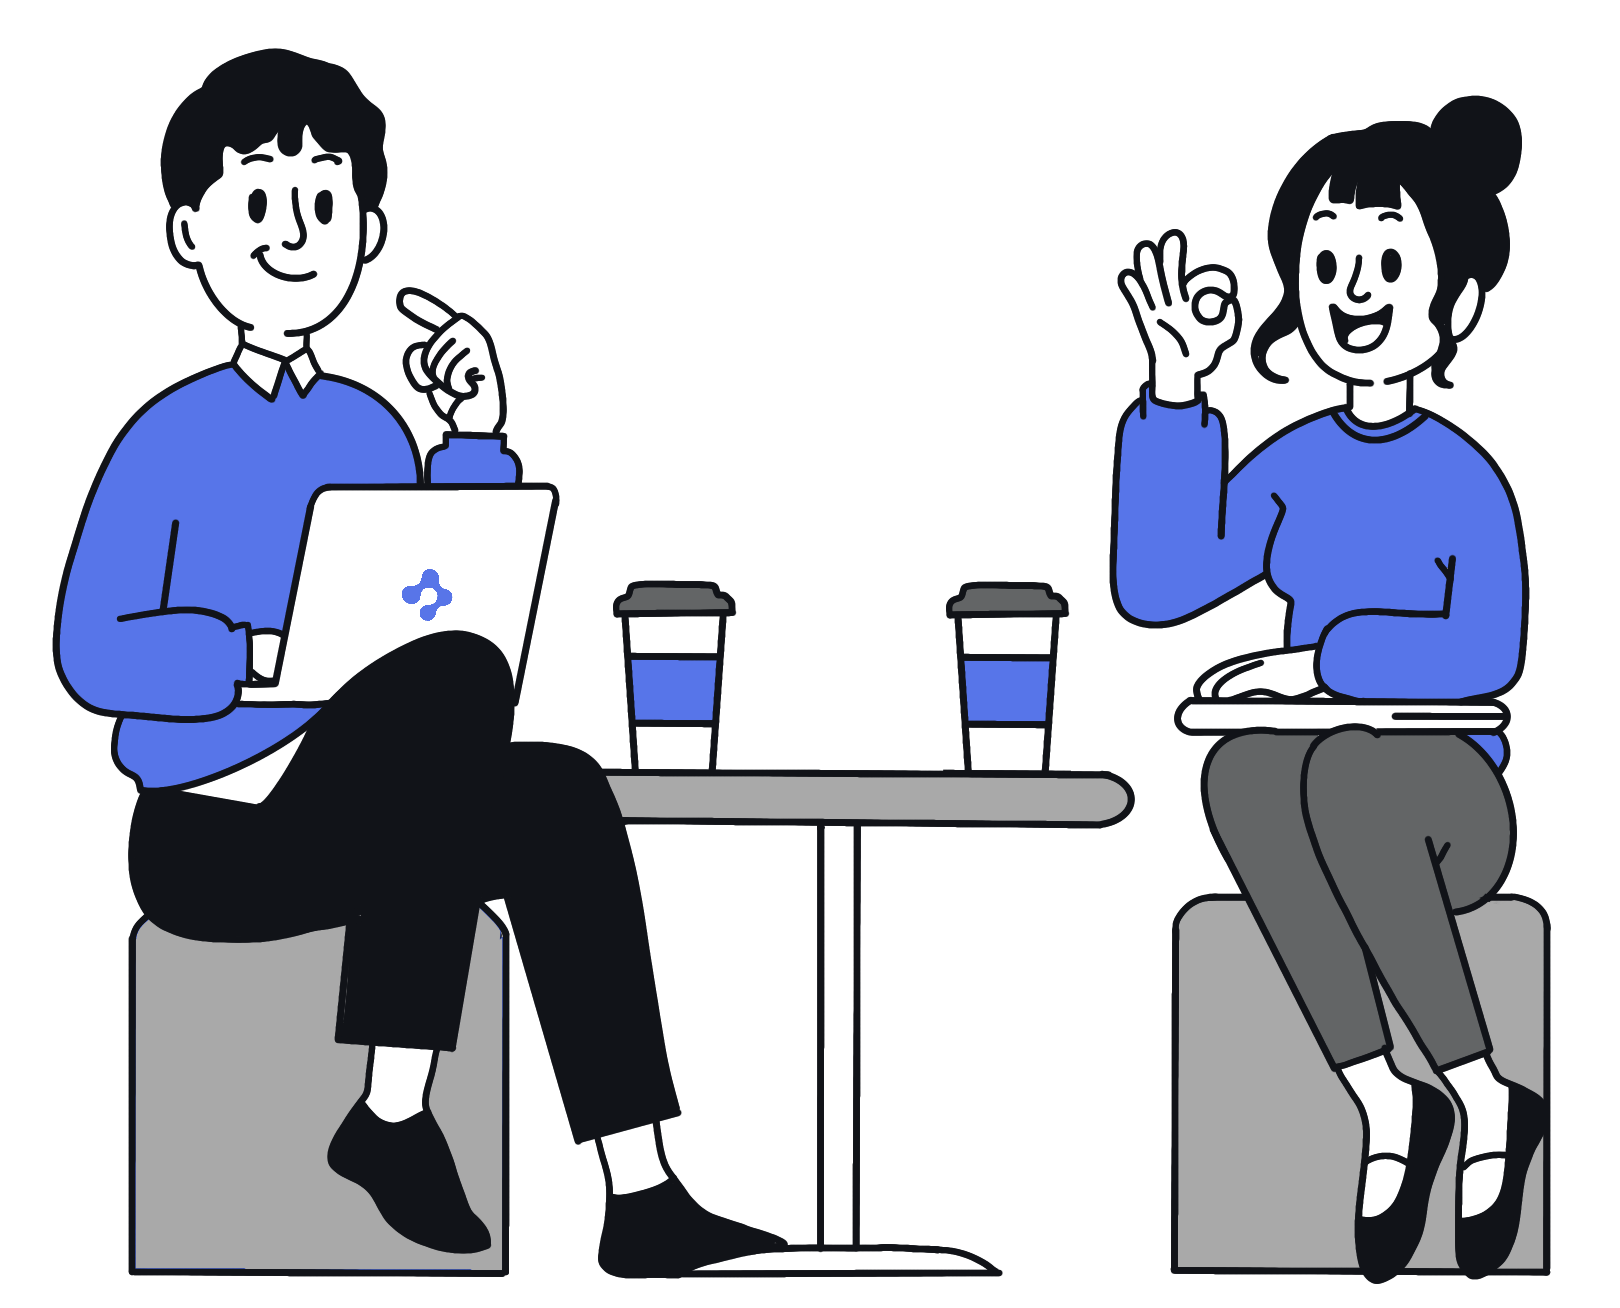
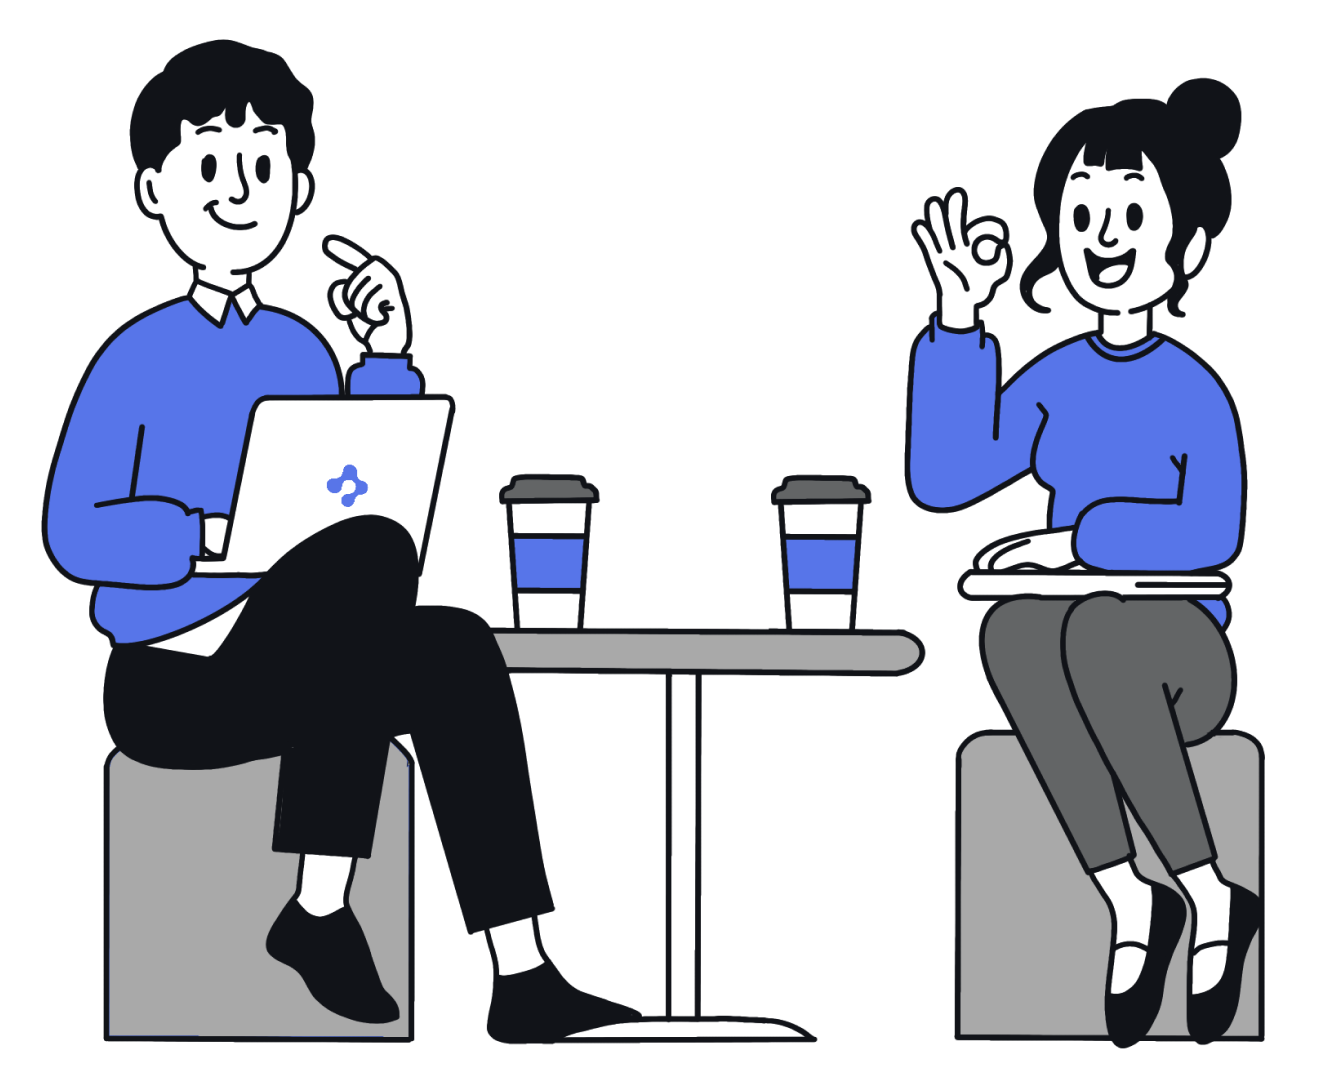
images fix and likes fix fuck fix yeaaaa

diff --git a/src/components/Profile/ProfilePosts.js b/src/components/Profile/ProfilePosts.js
@@ -17,6 +17,8 @@ const ProfilePosts = ({
   company = false,
   userId,
 }) => {
+  console.log(userId, "userId");
+
   const [posts, setPosts] = useState(null);
   const [cursor, setCursor] = useState("");
   const [hasNextPage, setHasNextPage] = useState(true);
@@ -55,16 +57,16 @@ const ProfilePosts = ({
           </div>
         ) : posts?.length === 0 ? (
           <Card style={"flex justify-center"}>
-            <div className="[@media(pointer:coarse)]:items-center [@media(pointer:coarse)]:justify-center flex flex-col gap-[24px]  w-full text-start ">
+            <div className="[@media(pointer:coarse)]:items-center [@media(pointer:coarse)]:justify-center flex flex-col gap-[7px]  w-full text-start ">
               {others === false && (
                 <div className="w-full flex justify-center items-center">
                   <Image
                     src={"/TwoGuys1post.png"}
                     quality={100}
                     unoptimized
-                    className="h-[300px] w-fit"
-                    width={1620}
-                    height={2160}
+                    className="w-full h-full max-w-[327px] max-h-[376px] mx-auto"
+                    width={1308}
+                    height={1504}
                   />
                 </div>
               )}

diff --git a/src/components/Profile/ProfileBookmarks.js b/src/components/Profile/ProfileBookmarks.js
@@ -46,16 +46,16 @@ const ProfileBookmarks = ({ userId, others = false }) => {
         </div>
       ) : posts?.length === 0 ? (
         <Card style={"flex justify-center"} padding={16}>
-          <div className="[@media(pointer:coarse)]:items-center [@media(pointer:coarse)]:justify-center flex flex-col gap-[24px] justify-center w-full  ">
+          <div className="[@media(pointer:coarse)]:items-center [@media(pointer:coarse)]:justify-center flex flex-col gap-[7px]  w-full text-start ">
             {others === false && (
               <div className="w-full flex justify-center items-center">
                 <Image
                   src={"/TwoGuys1post.png"}
                   quality={100}
                   unoptimized
-                  className="h-[300px] w-fit"
-                  width={1620}
-                  height={2160}
+                  className="w-full h-full max-w-[327px] max-h-[376px] mx-auto"
+                  width={1308}
+                  height={1504}
                 />
               </div>
             )}

diff --git a/src/components/company/CompanyInfo.js b/src/components/company/CompanyInfo.js
@@ -30,7 +30,7 @@ const CompanyInfo = ({ data, others = false }) => {
         <Card>
           <div
             className="[@media(pointer:coarse)]:items-center flex flex-col [@media(hover)]:w-full   gap-[12px] [@media(pointer:coarse)]:mx-auto [@media(pointer:coarse)]:justify-center w-full [@media(pointer:coarse)]:max-w-[288px] [@media(pointer:coarse)]:text-center 
-         [@media(pointer:coarse)]:my-[33px]"
+ "
           >
             {others === false && (
               <div className="w-full flex justify-center items-center">
@@ -38,9 +38,9 @@ const CompanyInfo = ({ data, others = false }) => {
                   src={"/editGuys.png"}
                   quality={100}
                   unoptimized
-                  className="h-[300px] w-fit"
-                  width={2160}
-                  height={1620}
+                  className="max-w-[454px] max-h-[334px] w-full h-full mx-auto"
+                  width={1780}
+                  height={1336}
                 />
               </div>
             )}

diff --git a/src/components/Profile/ProfileInfo.js b/src/components/Profile/ProfileInfo.js
@@ -33,7 +33,7 @@ const ProfileInfo = ({ data, others = false }) => {
         <Card>
           <div
             className="[@media(pointer:coarse)]:items-center flex flex-col [@media(hover)]:w-full   gap-[12px] [@media(pointer:coarse)]:mx-auto [@media(pointer:coarse)]:justify-center w-full [@media(pointer:coarse)]:max-w-[288px] [@media(pointer:coarse)]:text-center 
-         [@media(pointer:coarse)]:my-[33px]"
+"
           >
             {others === false && (
               <div className="w-full flex justify-center items-center">
@@ -41,9 +41,9 @@ const ProfileInfo = ({ data, others = false }) => {
                   src={"/editGuys.png"}
                   quality={100}
                   unoptimized
-                  className="h-[300px] w-fit"
-                  width={2160}
-                  height={1620}
+                  className="max-w-[454px] max-h-[334px] w-full h-full mx-auto"
+                  width={1780}
+                  height={1336}
                 />
               </div>
             )}

diff --git a/src/components/Profile/ProfileLiked.js b/src/components/Profile/ProfileLiked.js
@@ -55,16 +55,16 @@ const ProfileLiked = ({
         </div>
       ) : posts?.length === 0 ? (
         <Card style={"flex justify-center"} padding={16}>
-          <div className="[@media(pointer:coarse)]:items-center [@media(pointer:coarse)]:justify-center flex flex-col gap-[24px]  w-full text-start ">
+          <div className="[@media(pointer:coarse)]:items-center [@media(pointer:coarse)]:justify-center flex flex-col gap-[7px]  w-full text-start ">
             {others === false && (
               <div className="w-full flex justify-center items-center">
                 <Image
                   src={"/TwoGuys1post.png"}
                   quality={100}
                   unoptimized
-                  className="h-[300px] w-fit"
-                  width={1620}
-                  height={2160}
+                  className="w-full h-full max-w-[327px] max-h-[376px] mx-auto"
+                  width={1308}
+                  height={1504}
                 />
               </div>
             )}

diff --git a/src/app/layout.js b/src/app/layout.js
@@ -7,6 +7,7 @@ import AuthLayout from "../layouts/AuthLayout";
 import Layout from "../layouts/Layout";
 import Header from "../shared/ui/Header";
 import BottomNav from "../shared/ui/BottomNav";
+import Head from "next/head";
 // import Script from 'next/script'
 
 export const metadata = {
@@ -22,14 +23,15 @@ export default async function RootLayout({ children }) {
 
   return (
     <html>
-      <head>
+      <Head>
         <meta
           name="viewport"
           content="width=device-width, initial-scale=1.0, minimum-scale=1.0, maximum-scale=1.0, user-scalable=no"
         />
+        <link rel="shortcut icon" type="image/png" href="/favicon.png" />
         {/* <meta name='HandheldFriendly' content='true' />
 				<meta name='yandex-verification' content='76f3eafd299bf6ab' /> */}
-      </head>
+      </Head>
       {/* <Script type='text/javascript'>
 				{`(function(m,e,t,r,i,k,a){m[i]=m[i]||function(){(m[i].a=m[i].a||[]).push(arguments)};
    m[i].l=1*new Date();

diff --git a/src/components/messenger/MessageItem.js b/src/components/messenger/MessageItem.js
@@ -20,7 +20,11 @@ const MessageItem = ({ item, style, last = false }) => {
               target={"_blank"}
               href={(link[0] === "w" ? "//" : "") + link}
               key={textWithLinks.length}
-              className="text-[#5875e8] hover:text-[#3A56C5] active:text-[#2C429C] transition-all duration-[250ms]"
+              className={
+                item.myMessage
+                  ? "text-[#fff] underline"
+                  : "text-[#5875e8] hover:text-[#3A56C5] active:text-[#2C429C] transition-all duration-[250ms]"
+              }
             >
               {link}
             </a>

diff --git a/src/components/company/CompanyVacancies.js b/src/components/company/CompanyVacancies.js
@@ -59,9 +59,9 @@ const CompanyVacancies = ({ id, others = false, role, userId }) => {
                   src={"/TwoGuys1post.png"}
                   quality={100}
                   unoptimized
-                  className="h-[300px] w-fit"
-                  width={1620}
-                  height={2160}
+                  className="w-full h-full max-w-[327px] max-h-[376px] mx-auto"
+                  width={1308}
+                  height={1504}
                 />
               </div>
             )}

diff --git a/src/shared/icons/MessengerIcon.js b/src/shared/icons/MessengerIcon.js
@@ -40,12 +40,12 @@ const MessengerIcon = ({ fill = "#000", size = 25, big = false }) => {
   const [delay, setDelay] = useState(2000);
   const [isRunning, setIsRunning] = useState(true);
 
-  useInterval(
-    () => {
-      getData();
-    },
-    isRunning ? delay : null
-  );
+  // useInterval(
+  //   () => {
+  //     getData();
+  //   },
+  //   isRunning ? delay : null
+  // );
 
   return (
     <Link href={"/messenger"} className="group">

diff --git a/src/components/messenger/ChatsEmpty.js b/src/components/messenger/ChatsEmpty.js
@@ -14,9 +14,9 @@ const ChatsEmpty = () => {
           src={"/TwoGuysOneCup.png"}
           quality={100}
           unoptimized
-          className="h-[300px] w-fit"
-          width={1620}
-          height={1308}
+          className="w-full h-full max-w-[330px] max-h-[267px] mx-auto"
+          width={1320}
+          height={1068}
         />
       </div>
       <TextSecondary

diff --git a/src/app/profile/[id]/page.js b/src/app/profile/[id]/page.js
@@ -33,7 +33,7 @@ const OthersProfilePage = async ({ params: { id } }) => {
   async function getUserFeed(cursor) {
     "use server";
     const session = await getServSession();
-    const posts = await getUserPosts(data.id, cursor);
+    const posts = await getUserPosts(data.id, cursor, session?.user?.id);
 
     return posts;
   }

diff --git a/src/components/othersPorfile/OthersProfileWithNav.js b/src/components/othersPorfile/OthersProfileWithNav.js
@@ -59,6 +59,7 @@ const OthersProfileWithNav = ({
       component: (
         <ProfilePosts
           others
+          userId={userId}
           getUserFeed={getUserFeed}
           addReaction={addReaction}
         />
